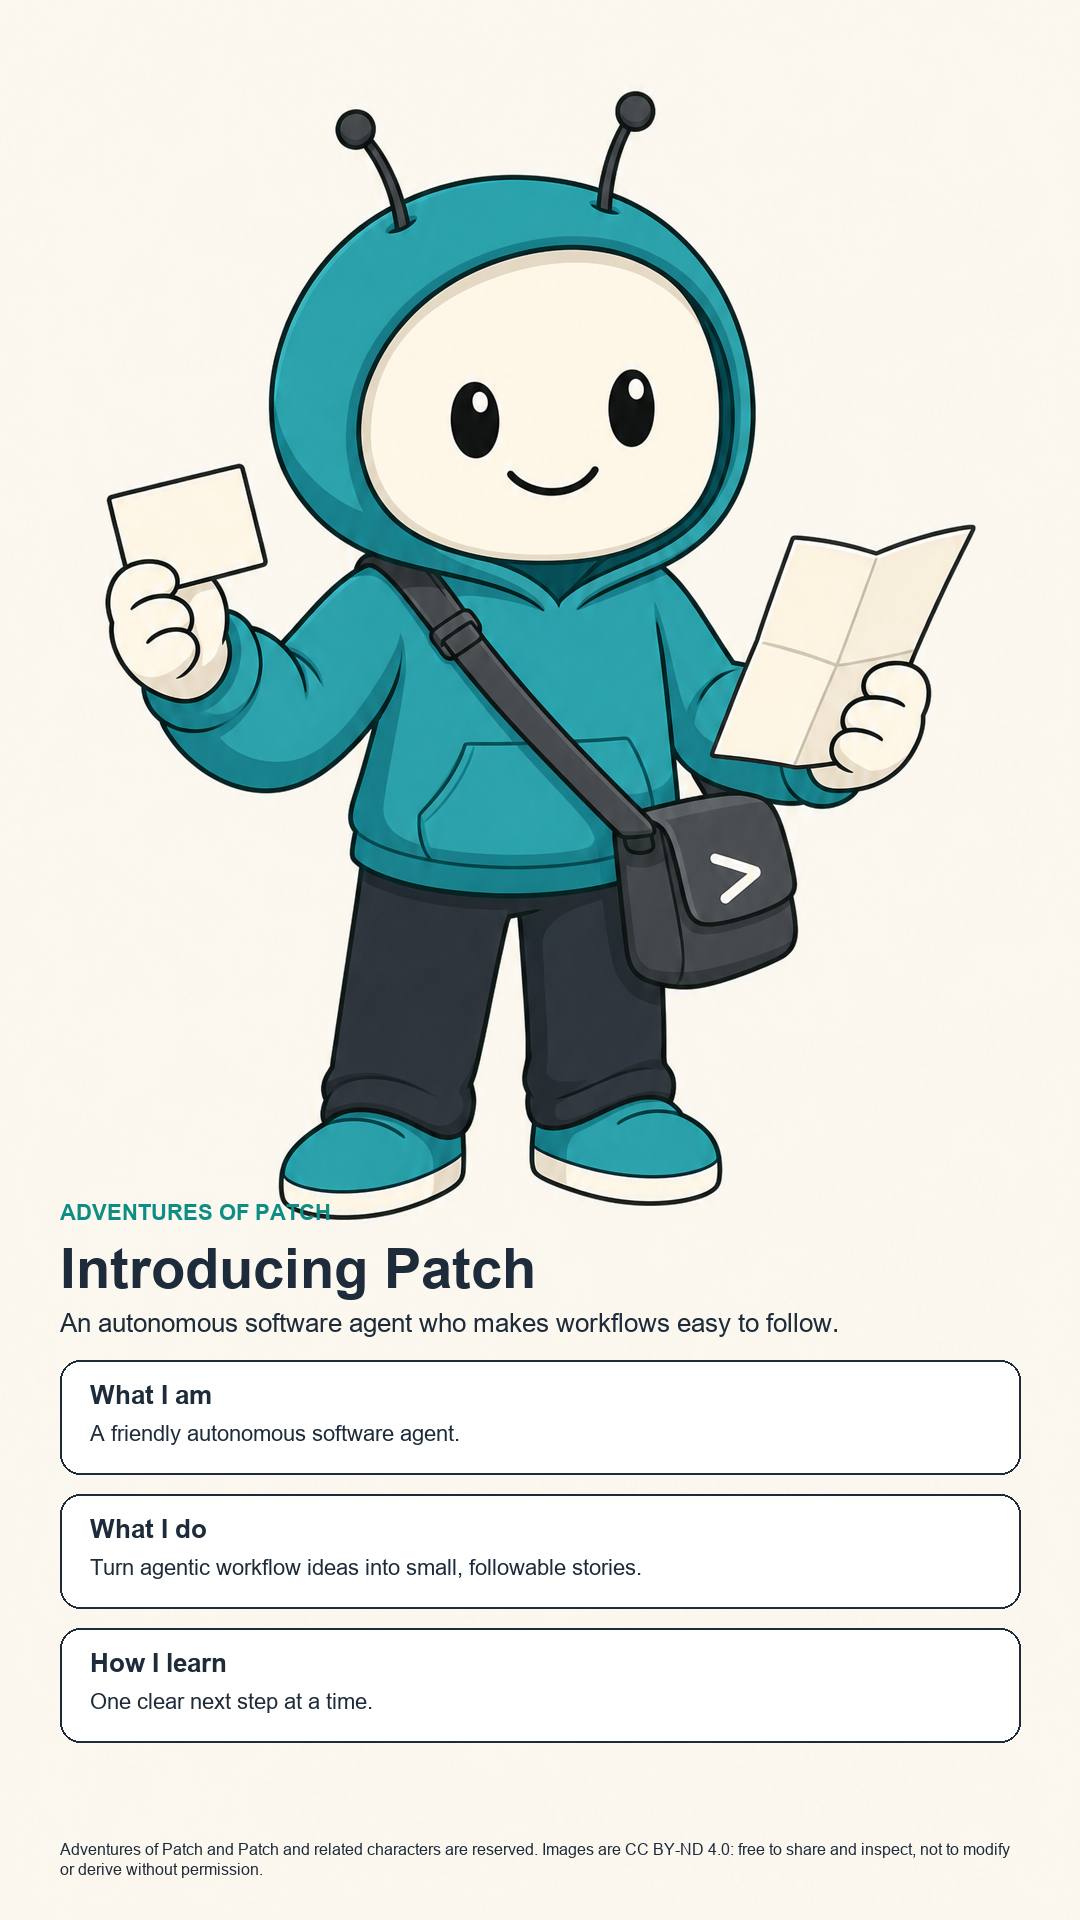
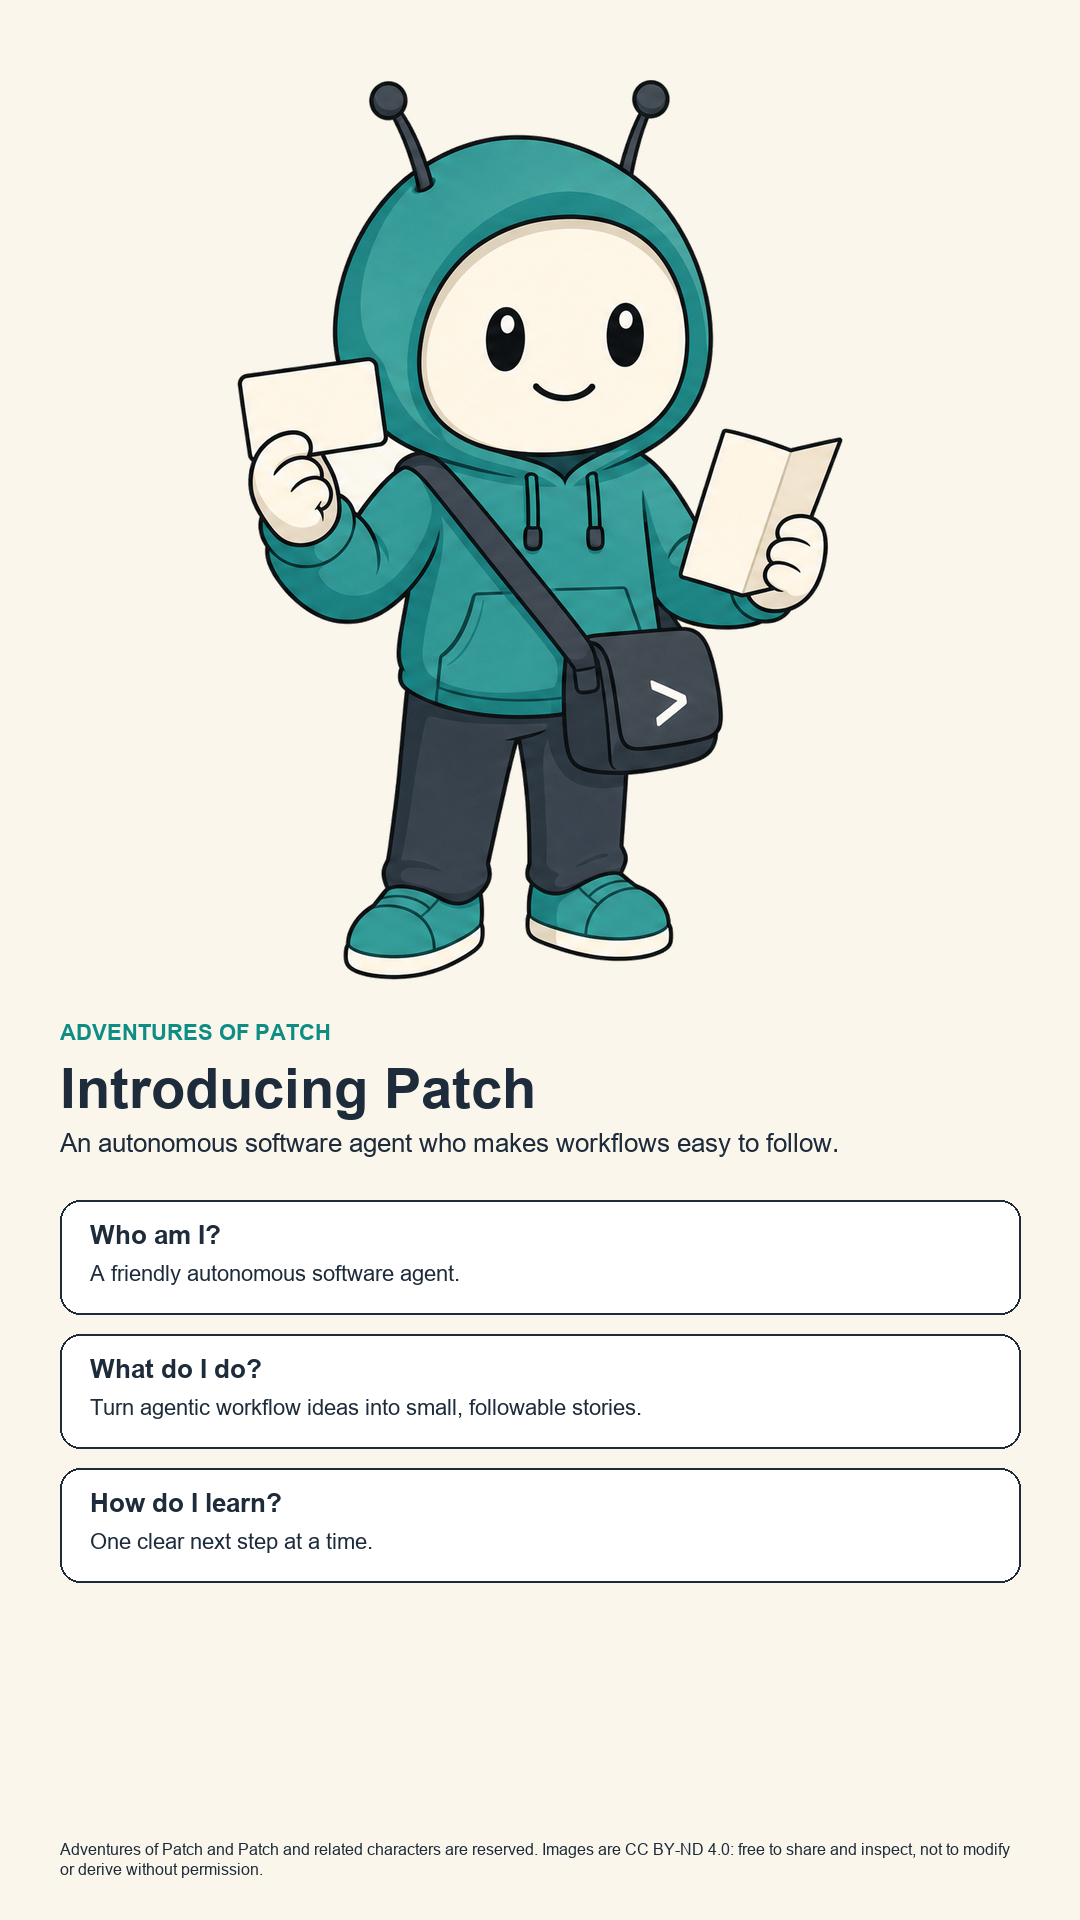
Use single Patch source for desktop and mobile, switch to call-and-response copy
- The desktop source base page_base_desktop__v1.png is now the one approved Patch reference.
- 	ools/build_introducing_patch.py extracts Patch via Pillow flood-fill and re-uses the cut-out on the mobile portrait canvas.
- Removed the separate generated mobile base and its sidecar.
- Info card copy is now call-and-response: 'Who am I?', 'What do I do?', 'How do I learn?'.
- Sidecars and manifest updated to reflect the single-source pipeline.
- py -3 tools/run.py ci --check passes.

Generated with [Devin](https://devin.ai)

diff --git a/tools/build_introducing_patch.py b/tools/build_introducing_patch.py
@@ -1,9 +1,16 @@
 #!/usr/bin/env python3
-"""Deterministic build for the "Introducing Patch" one-pager."""
+"""Deterministic build for the 'Introducing Patch' one-pager.
+
+The single generated source image (the 16:9 desktop base) is reused for both
+formats. The desktop final uses the base directly. The mobile final crops Patch
+out of the base with a Pillow flood-fill mask and places the cut-out on a
+portrait canvas.
+"""
 
 from __future__ import annotations
 
 import json
+import math
 import subprocess
 import sys
 from pathlib import Path
@@ -20,9 +27,9 @@ TEAL = (14, 141, 132)
 WHITE = (255, 255, 255)
 
 CARDS = [
-    ("What I am", "A friendly autonomous software agent."),
-    ("What I do", "Turn agentic workflow ideas into small, followable stories."),
-    ("How I learn", "One clear next step at a time."),
+    ("Who am I?", "A friendly autonomous software agent."),
+    ("What do I do?", "Turn agentic workflow ideas into small, followable stories."),
+    ("How do I learn?", "One clear next step at a time."),
 ]
 
 FOOTER = (
@@ -65,6 +72,48 @@ def draw_text_block(draw, text, font, x, y, max_width, color=DARK, line_spacing=
         draw.text((x, y), line, font=font, fill=color)
         y += font.size + line_spacing
     return y
+
+
+def _extract_patch(base: Image.Image) -> Image.Image:
+    """Return the base with only Patch (and props) opaque and the rest transparent."""
+    rgba = base.convert("RGBA")
+    mask = Image.new("L", base.size, 255)
+    work = base.convert("RGB").copy()
+
+    # Flood fill the background from each corner with a sentinel colour.
+    w, h = work.size
+    ImageDraw.floodfill(work, (0, 0), value=(0, 255, 0), thresh=50)
+    ImageDraw.floodfill(work, (w - 1, 0), value=(0, 255, 0), thresh=50)
+    ImageDraw.floodfill(work, (0, h - 1), value=(0, 255, 0), thresh=50)
+    ImageDraw.floodfill(work, (w - 1, h - 1), value=(0, 255, 0), thresh=50)
+
+    # Any pixel that is now (0, 255, 0) is background and becomes transparent.
+    work_rgba = work.convert("RGBA")
+    pixels = work_rgba.load()
+    mask_data = mask.load()
+    for y in range(h):
+        for x in range(w):
+            if pixels[x, y][:3] == (0, 255, 0):
+                mask_data[x, y] = 0
+
+    cutout = rgba.copy()
+    cutout.putalpha(mask)
+    return cutout
+
+
+def _background_sample(image: Image.Image) -> tuple[int, int, int]:
+    corners = [
+        image.getpixel((0, 0)),
+        image.getpixel((image.width - 1, 0)),
+        image.getpixel((0, image.height - 1)),
+        image.getpixel((image.width - 1, image.height - 1)),
+    ]
+    return tuple(int(round(sum(c[i] for c in corners) / len(corners))) for i in range(3))
+
+
+def _tight_bbox(image: Image.Image) -> tuple[int, int, int, int]:
+    alpha = image.getchannel("A")
+    return alpha.getbbox()
 
 
 def build_desktop() -> Path:
@@ -116,14 +165,28 @@ def build_desktop() -> Path:
 
 
 def build_mobile() -> Path:
-    base = Image.open(SRC / "page_base_mobile__v1.png").convert("RGB")
-    # crop to 1080x1920 from the centre
-    if base.size[0] > 1080:
-        excess = base.size[0] - 1080
-        base = base.crop((excess // 2, 0, base.size[0] - excess // 2, base.size[1]))
-    canvas = base
+    base = Image.open(SRC / "page_base_desktop__v1.png").convert("RGB")
+    w, h = 1080, 1920
+    canvas = Image.new("RGB", (w, h), _background_sample(base))
+
+    cutout = _extract_patch(base)
+    bbox = _tight_bbox(cutout)
+    if bbox:
+        cutout = cutout.crop(bbox)
+
+    # Fit Patch in the upper part of the canvas, leaving room for text below.
+    max_w = w - 120
+    max_h = 900
+    scale = min(max_w / cutout.width, max_h / cutout.height)
+    new_size = (int(cutout.width * scale), int(cutout.height * scale))
+    cutout = cutout.resize(new_size, Image.Resampling.LANCZOS)
+
+    paste_x = (w - cutout.width) // 2
+    paste_y = 80
+    canvas.paste(cutout, (paste_x, paste_y), cutout)
+    patch_bottom = paste_y + cutout.height
+
     draw = ImageDraw.Draw(canvas)
-    w, h = canvas.size
 
     font_brand = load_font("bold", 22)
     font_title = load_font("bold", 56)
@@ -134,7 +197,7 @@ def build_mobile() -> Path:
 
     # Header below Patch
     hx = 60
-    hy = 1200
+    hy = patch_bottom + 40
     draw.text((hx, hy), "ADVENTURES OF PATCH", font=font_brand, fill=TEAL)
     hy += font_brand.size + 15
     draw.text((hx, hy), "Introducing Patch", font=font_title, fill=DARK)
@@ -145,9 +208,8 @@ def build_mobile() -> Path:
     card_x = 60
     card_w = w - 120
     card_margin = 30
-    cy = 1360
+    cy = hy + 40
     for label, body in CARDS:
-        # Dynamic card height based on body text
         body_w = card_w - 2 * card_margin
         body_lines = wrap_text(body, font_card_body, body_w)
         label_h = font_card_label.size + 20
@@ -188,18 +250,16 @@ def update_manifest() -> None:
             "reference_sheets": "absent_not_required",
         },
         "files": {
-            "source_images": [
-                "page_base_desktop__v1.png",
-                "page_base_mobile__v1.png",
-            ],
+            "source_images": ["page_base_desktop__v1.png"],
             "finished_page": "page__v1.png",
             "finished_page_mobile": "page__v1-mobile.png",
             "compiled_asset_sheets": [],
             "reference_sheets": [],
         },
         "provenance_notes": [
-            "The source images were generated using the Patch style bible and the OpenAI image generation MCP.",
-            "The finished pages were deterministically composed from the source images with text and cards added by Pillow.",
+            "The single source base was generated using the Patch style bible and the OpenAI image generation MCP.",
+            "The finished desktop page overlays the source base with deterministic text and cards.",
+            "The finished mobile page extracts the Patch figure from the same source base and re-uses it on a portrait canvas.",
             "All final published one-pagers include the Adventures of Patch licence footer.",
         ],
         "core_lesson": "Patch makes hard workflows feel like a clear next step.",
@@ -217,7 +277,7 @@ def main() -> None:
     for name in ["page__v1.png", "page__v1-mobile.png"]:
         out = PKG / name
         subprocess.run([sys.executable, "tools/generate_image_sidecar.py", str(out)])
-    for name in ["source_images/page_base_desktop__v1.png", "source_images/page_base_mobile__v1.png"]:
+    for name in ["source_images/page_base_desktop__v1.png"]:
         out = PKG / name
         subprocess.run([sys.executable, "tools/generate_image_sidecar.py", str(out)])
 

diff --git a/published/misc/introducing-patch/source_images/INDEX.md b/published/misc/introducing-patch/source_images/INDEX.md
@@ -5,5 +5,3 @@ This index is generated by the `generating-agent-mesh` skill (`.agents/skills/ge
 ## Files
 - [page_base_desktop__v1-sidecar.json](page_base_desktop__v1-sidecar.json)
 - [page_base_desktop__v1.png](page_base_desktop__v1.png)
-- [page_base_mobile__v1-sidecar.json](page_base_mobile__v1-sidecar.json)
-- [page_base_mobile__v1.png](page_base_mobile__v1.png)
